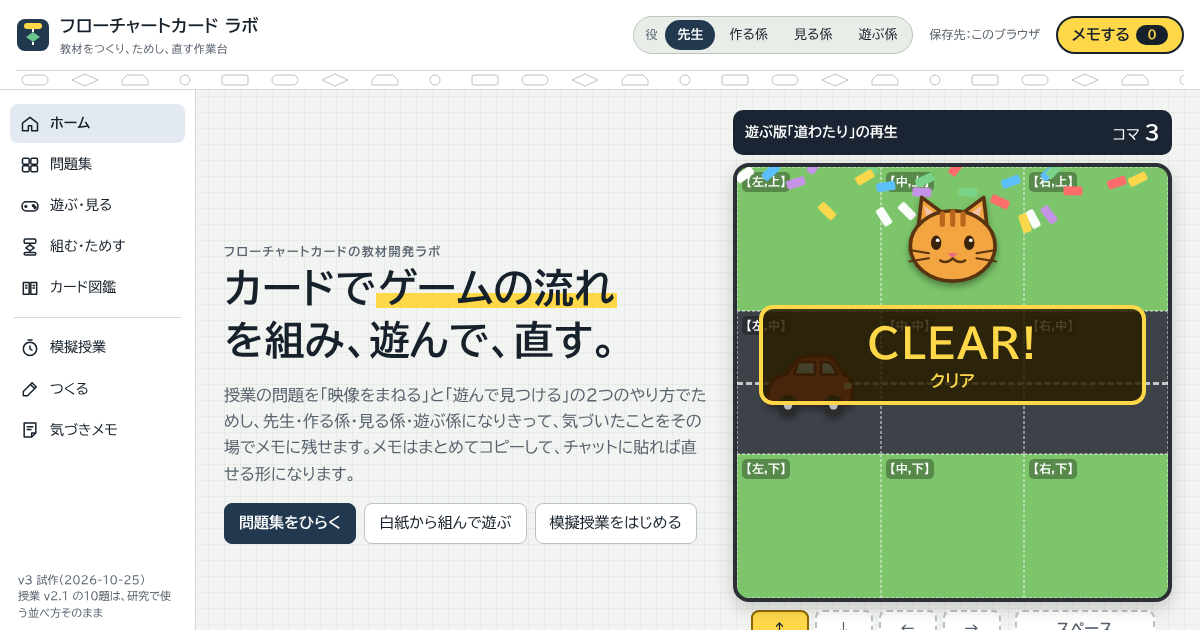
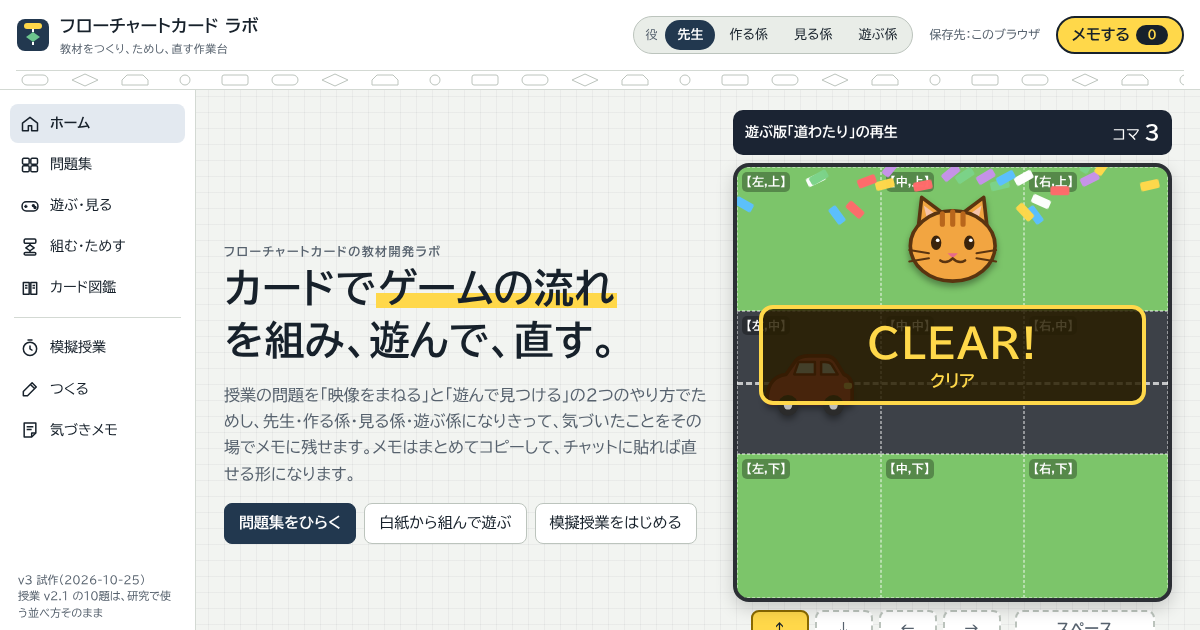
フローチャートカード ラボ：スマホで選んだカードが書く欄に隠れないようにする
Claude-Session: https://claude.ai/code/session_015rzswWMY7uoNTBnhZ5nXvS

Changed region(s): [[0.6167, 0.2413, 0.9867, 0.3619]]

diff --git a/flowchart-card-lab/index.html b/flowchart-card-lab/index.html
@@ -1717,14 +1717,21 @@ function placeNew(ctx, id) {
   if (t.c === 1 && !ifRegions(rows)[t.r]) t.c = 0;
   if (rows[t.r][t.c]) rows.splice(t.r, 0, [null, null]);
   rows[t.r][t.c] = def.make(); B.sel = t; setRows(rows); changed(ctx);
-  // スマホなど幅のせまい画面では、置いたカードまで動かして見せる（書く欄は画面の下に出る）
-  if (window.matchMedia("(max-width: 760px)").matches) { const el = $(`.slot[data-r="${t.r}"][data-c="${t.c}"]`, ctx.m); if (el) el.scrollIntoView({ block: "center", behavior: reduceMotion() ? "auto" : "smooth" }); }
+  revealSel(ctx);
+}
+// スマホなど幅のせまい画面では、書く欄が画面の下に出るので、選んだカードがその上に見えるように動かす
+function revealSel(ctx) {
+  const B = S.build; if (!B.sel || !window.matchMedia("(max-width: 760px)").matches) return;
+  const el = $(`.slot[data-r="${B.sel.r}"][data-c="${B.sel.c}"]`, ctx.m); const ed = $("#b-editor", ctx.m); if (!el) return;
+  const r = el.getBoundingClientRect(); const limit = ed && !ed.hidden ? ed.getBoundingClientRect().top - 12 : window.innerHeight - 12;
+  let dy = 0; if (r.bottom > limit) dy = r.bottom - limit; if (r.top - dy < 12) dy = r.top - 12;
+  if (Math.abs(dy) > 2) window.scrollBy({ top: dy, behavior: reduceMotion() ? "auto" : "smooth" });
 }
 function onSlot(ctx, r, c) {
   const B = S.build; const rows = getRows(); while (rows.length <= r) rows.push([null, null]);
   const card = rows[r][c];
   if (B.moving && B.sel && rows[B.sel.r] && rows[B.sel.r][B.sel.c] && !card) { rows[r][c] = rows[B.sel.r][B.sel.c]; rows[B.sel.r][B.sel.c] = null; B.sel = { r, c }; B.moving = false; setRows(rows); changed(ctx); return; }
-  B.moving = false; B.sel = (B.sel && B.sel.r === r && B.sel.c === c) ? null : { r, c }; renderSheet(ctx);
+  B.moving = false; B.sel = (B.sel && B.sel.r === r && B.sel.c === c) ? null : { r, c }; renderSheet(ctx); revealSel(ctx);
 }
 function onDrop(ctx, data, r, c) {
   const B = S.build; const rows = getRows(); while (rows.length <= r) rows.push([null, null]);
@@ -1777,7 +1784,7 @@ function editAct(ctx, act) {
     if (c === 1 && !ifRegions(rows)[nr]) { toast("いいえの道のカードは、「もし」と「ここで道が1つにもどる」の間の行だけで動かせます。"); return; }
     const other = rows[nr][c]; rows[nr][c] = card; rows[r][c] = other; B.sel = { r: nr, c };
   }
-  setRows(rows); changed(ctx);
+  setRows(rows); changed(ctx); revealSel(ctx);
 }
 function clearRun(ctx) {
   stopAll(); ctx.step = null; const { m, board, p } = ctx;
